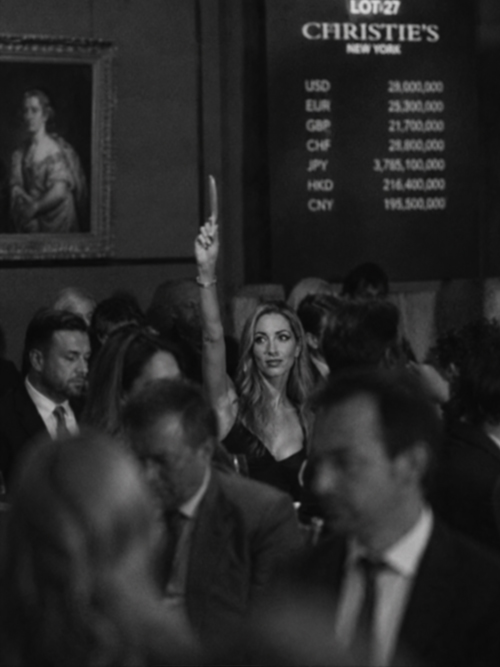
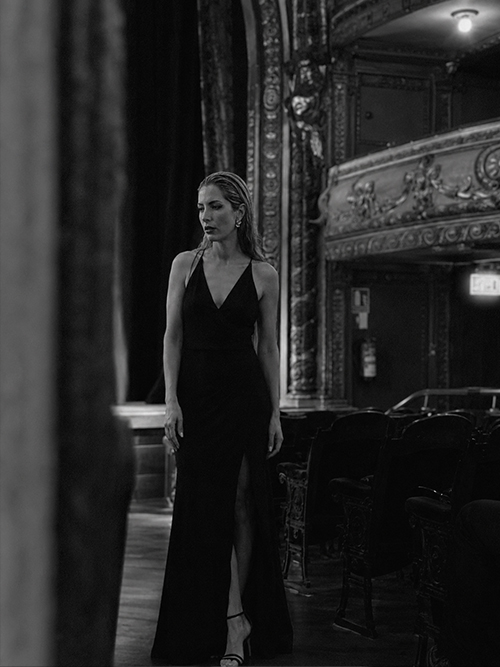
fix(audio+credits): stabilize comms playback, move unlock to atrium, and sync credits assets

diff --git a/src/audio/audiomanager.ts b/src/audio/audiomanager.ts
@@ -9,7 +9,6 @@ let hasUserGesture = false;
 let listenersAttached = false;
 let pendingMusicPlay = false;
 let pendingUnlockVolume: number | null = null;
-let emailVoiceRequestId = 0;
 let musicRestoreSuppressed = false;
 
 const MUSIC_VOLUME = 0.08;
@@ -21,6 +20,7 @@ const EMAIL_VOICES: Record<string, string> = {
   "4": "/sounds/pitas.wav",
   "5": "/sounds/russian.wav",
 };
+const EMAIL_CONTROLLED_KEY = "comms-email";
 
 function attachGestureUnlockListeners() {
   if (listenersAttached || typeof window === "undefined") return;
@@ -540,22 +540,18 @@ voice.volume = volume;
 
   playNext(0);
 }
-export async function playEmailVoice(id: string, fadeMs = 120) {
+export function playEmailVoice(id: string) {
   const voiceSrc = EMAIL_VOICES[id];
 
-  const requestId = ++emailVoiceRequestId;
+  if (!voiceSrc) {
+    stopControlledAudio(EMAIL_CONTROLLED_KEY);
+    return;
+  }
 
-  await fadeOutVoice(fadeMs);
-
-  if (!voiceSrc) return;
-
-  // If a newer email was requested while fading, cancel this older request.
-  if (requestId !== emailVoiceRequestId) return;
-
-  await playVoice(voiceSrc);
+  // Single controlled key guarantees hard cut of previous mail and immediate start of the new one.
+  playControlledAudio(EMAIL_CONTROLLED_KEY, voiceSrc, 0.58, false);
 }
 
-export function stopEmailVoice(ms = 300) {
-  emailVoiceRequestId += 1;
-  return fadeOutVoice(ms);
+export function stopEmailVoice(_ms = 300) {
+  stopControlledAudio(EMAIL_CONTROLLED_KEY);
 }

diff --git a/src/routes/index.tsx b/src/routes/index.tsx
@@ -3,7 +3,7 @@ import { createFileRoute, Link } from "@tanstack/react-router";
 import { useEffect, useState } from "react";
 import { AppShell, Panel, StatBlock } from "../components/AppShell";
 import { ClearanceGate } from "../components/ClearanceGate";
-import { playSfx } from "../audio/audiomanager";
+import { playSfx, playUnlockSound } from "../audio/audiomanager";
 
 export const Route = createFileRoute("/")({
   head: () => ({
@@ -16,6 +16,7 @@ export const Route = createFileRoute("/")({
 });
 
 const SKIP_COMMISSION_GATES_KEY = "skip-commission-gates-once";
+const UNLOCK_SOUND_PLAYED_KEY = "unlock-sound-played";
 
 function Index() {
   const [entered, setEntered] = useState(false);
@@ -81,6 +82,16 @@ function Atrium() {
   const [showAuthenticated, setShowAuthenticated] = useState(false);
   const [operativoPulse, setOperativoPulse] = useState(false);
   const [borderSweepVisible, setBorderSweepVisible] = useState(false);
+
+  useEffect(() => {
+    if (typeof window === "undefined") return;
+
+    const unlockPlayed = window.sessionStorage.getItem(UNLOCK_SOUND_PLAYED_KEY) === "1";
+    if (unlockPlayed) return;
+
+    playUnlockSound(0.62);
+    window.sessionStorage.setItem(UNLOCK_SOUND_PLAYED_KEY, "1");
+  }, []);
 
   useEffect(() => {
     const seenBefore = typeof window !== "undefined" && window.sessionStorage.getItem("comunicado-seen") === "1";

diff --git a/src/components/EntryGate.tsx b/src/components/EntryGate.tsx
@@ -3,7 +3,6 @@ import {
   fadeMusicVolume,
   playMusic,
   playSfx,
-  playUnlockSound,
   primeUnlockSound,
 } from "../audio/audiomanager";
 
@@ -64,10 +63,6 @@ export function EntryGate({ onEnter }: Props) {
           }}
           onClick={() => {
           primeUnlockSound();
-          playUnlockSound(0.62);
-          if (typeof window !== "undefined") {
-            window.sessionStorage.setItem("unlock-sound-played", "1");
-          }
           onEnter();
           playSfx("/sounds/luxbeep.mp3", 0.14);
           playMusic("/sounds/john.mp3", 0, true, 42);

diff --git a/src/routes/comms.tsx b/src/routes/comms.tsx
@@ -59,7 +59,7 @@ function Comms() {
 
     if (!alreadyAutoplayed) {
       window.sessionStorage.setItem(XIMO_AUTOPLAY_SESSION_KEY, "1");
-      playEmailVoice("1", 120);
+      playEmailVoice("1");
     }
 
     const handleVisibilityChange = () => {
@@ -104,7 +104,7 @@ function Comms() {
               <li key={t.id}>
                 <button
                   onClick={() => {
-                    playEmailVoice(t.id, 120);
+                    playEmailVoice(t.id);
 
                     if (open.id !== t.id) {
                       setOpen(t);

diff --git a/src/components/debrief/CreditsSequence.tsx b/src/components/debrief/CreditsSequence.tsx
@@ -26,7 +26,7 @@ const CREDIT_BLOCKS: CreditBlock[] = [
   { title: "TE QUIERO", lines: ["Con amor,", "tu Michi."] },
 ];
 
-const PHOTO_BASENAMES = ["eli", "nata", "eli1", "nata1", "eli2", "nata2", "eli3", "nata3", "nata4", "couple", "couple1", "couple0"] as const;
+const PHOTO_BASENAMES = ["eli", "nata", "eli1", "nata1", "eli2", "nata2", "eli3", "nata3", "nata4", "couple", "couple0"] as const;
 const PHOTO_EXTENSIONS = ["jpg", "jpeg", "png", "webp"] as const;
 
 export function CreditsSequence({ active }: CreditsSequenceProps) {